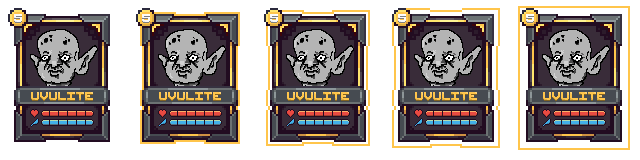
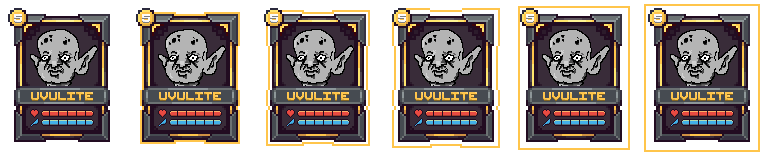
Update uvulite card sheet

diff --git a/src/core/config.h b/src/core/config.h
@@ -78,7 +78,7 @@
 #define HAND_CARD_PLACEHOLDER_PATH     "src/assets/cards/uvulite_card.png"
 #define HAND_CARD_KNIGHT_SHEET_PATH    "src/assets/cards/uvulite_card_sheet.png"
 #define HAND_CARD_KNIGHT_SHEET_ROWS    1
-#define HAND_CARD_KNIGHT_FRAME_COUNT   5
+#define HAND_CARD_KNIGHT_FRAME_COUNT   6
 #define HAND_CARD_KNIGHT_FRAME_TIME    0.05f
 
 #endif //NFC_CARDGAME_CONFIG_H
